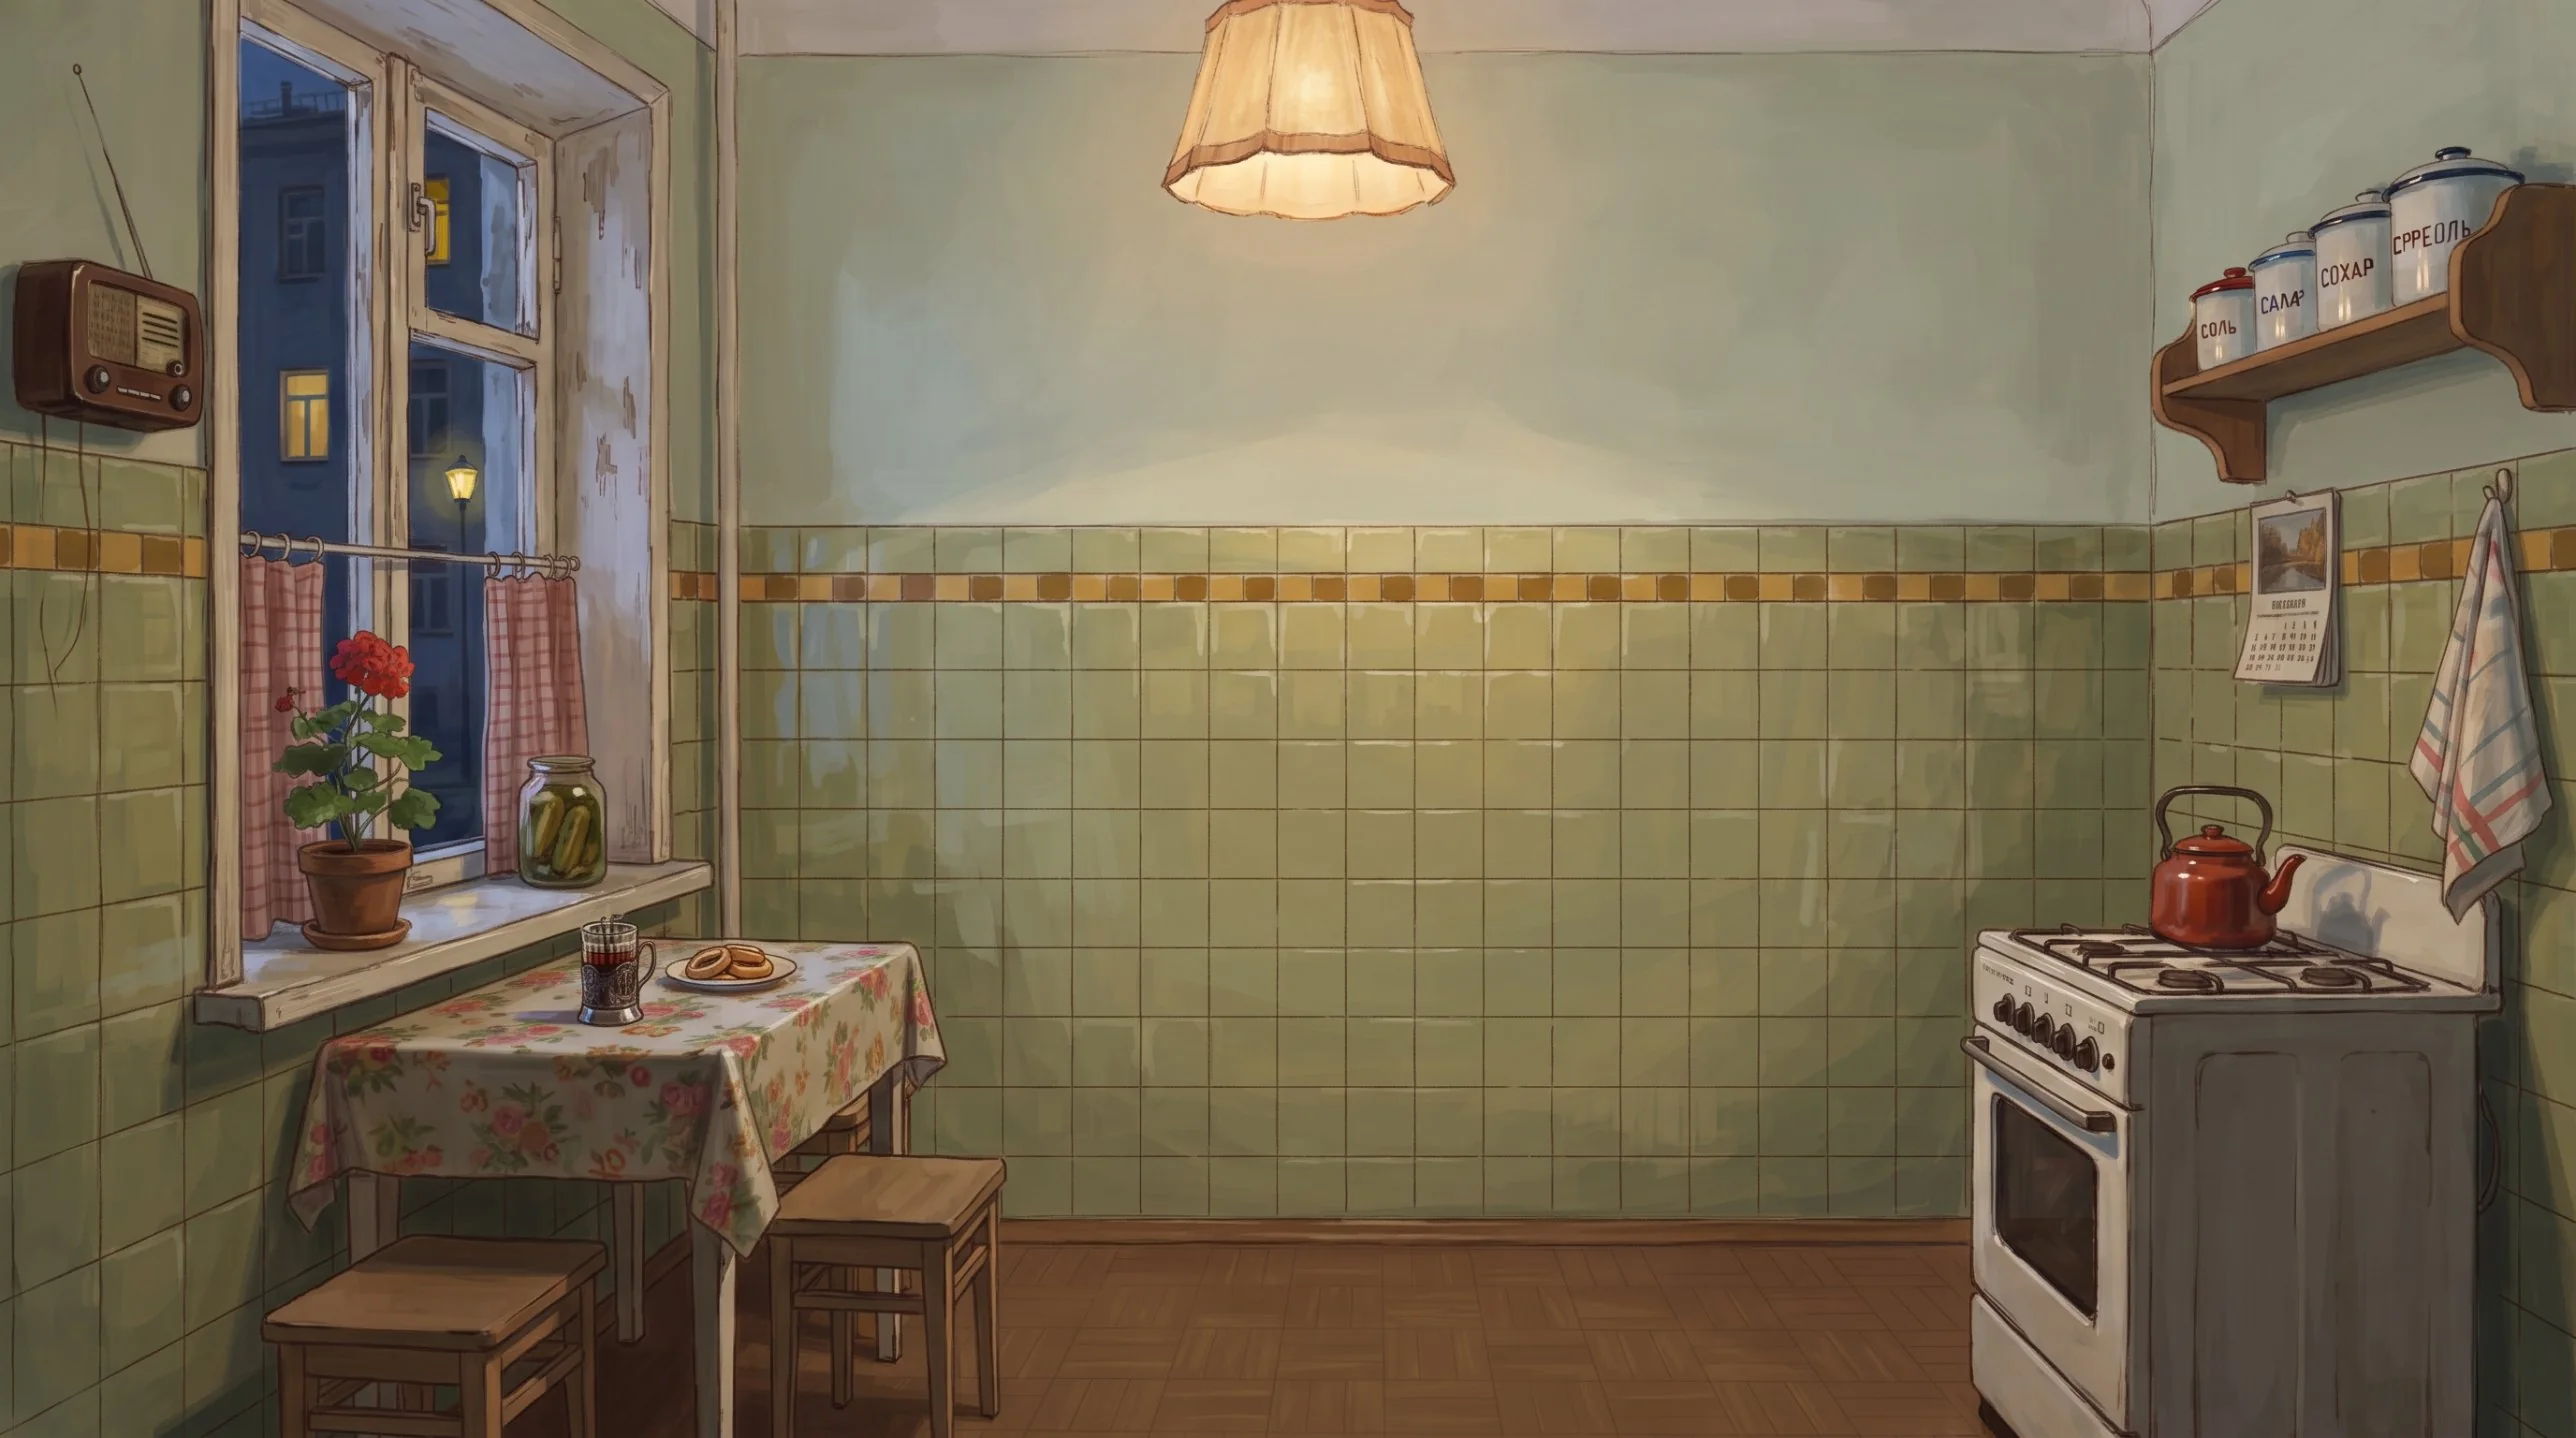
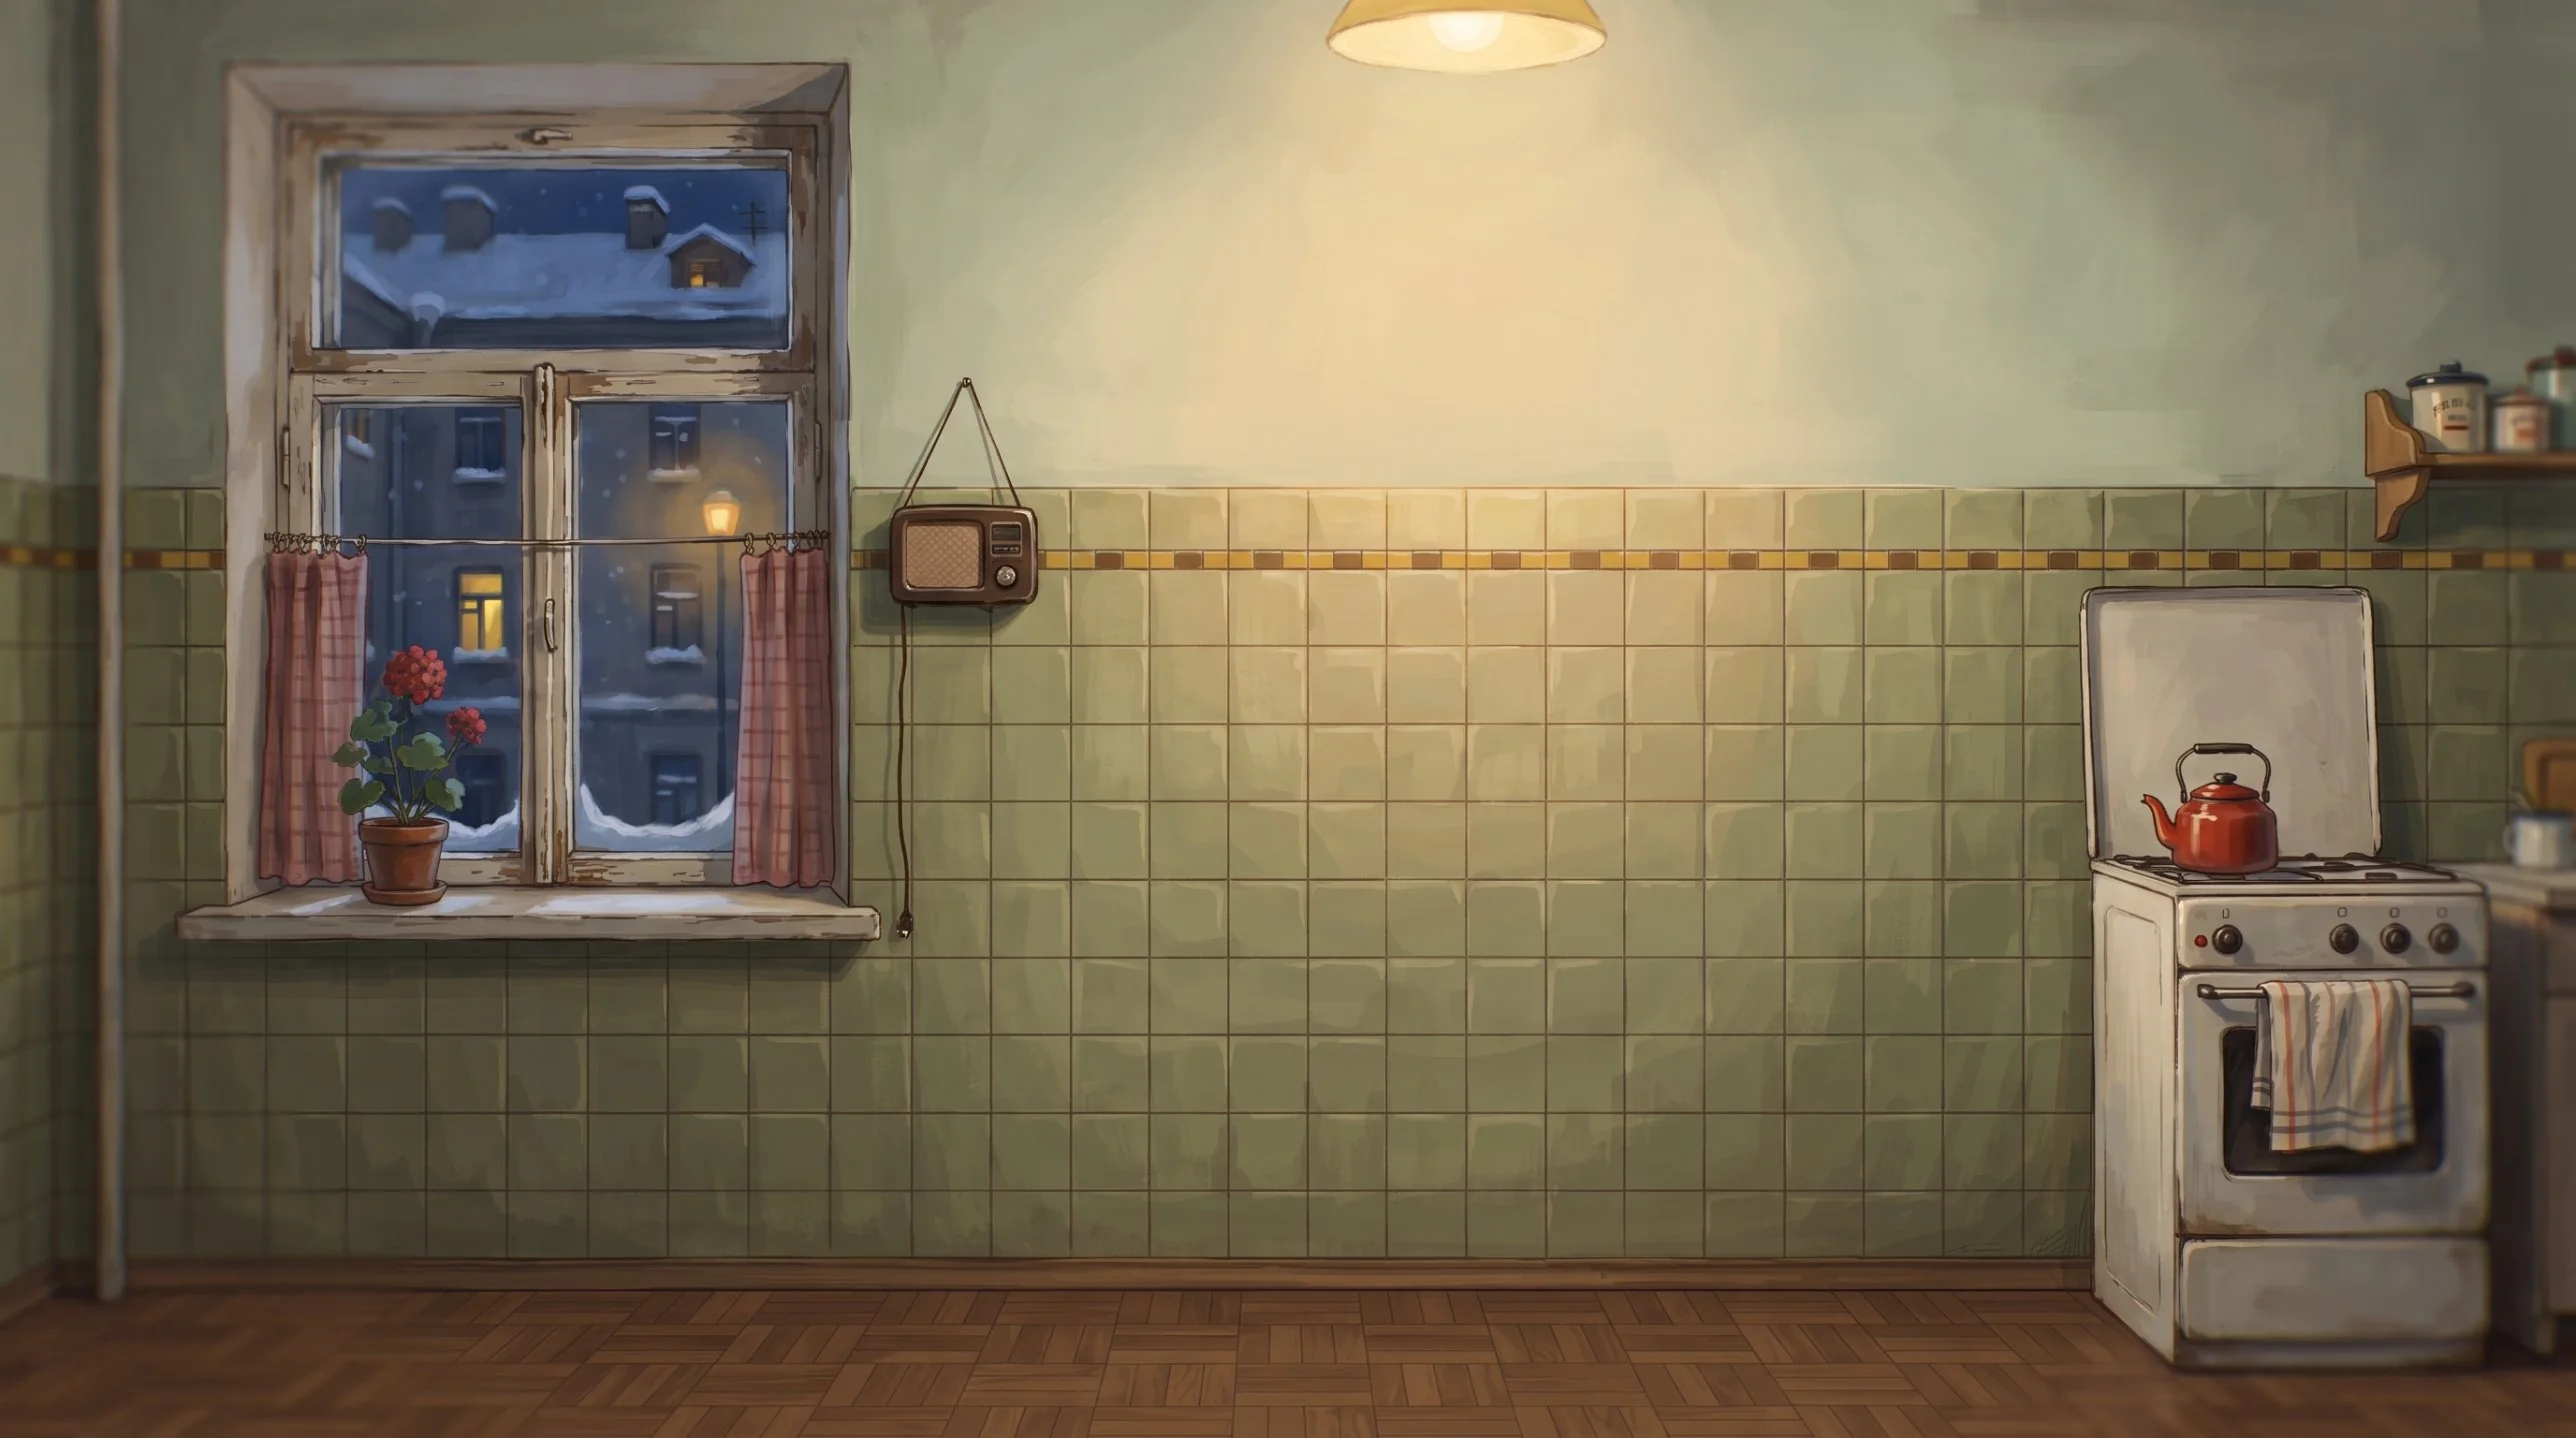
О проекте: новая стена кухни, снег за окном

diff --git a/index.html b/index.html
@@ -2233,6 +2233,7 @@ button.cd:focus-visible{outline:3px solid #e3c98f; outline-offset:4px}
   background:radial-gradient(ellipse at 50% 45%, transparent 55%, rgba(20,14,8,.35)), url("assets/about/kitchen.webp") 50% 50% / cover no-repeat,
     radial-gradient(ellipse 70% 60% at 50% 20%, #6a5440, #3a2e22 60%, #241c14)}
 .ab-kitchen .about.section{position:relative; padding-bottom:7svh}
+.kt-snow{position:absolute; inset:0; width:100%; height:100%}
 .ab-kitchen h2{color:#2a2418; text-shadow:0 1px 12px rgba(255,246,220,.8)}
 .ab-kitchen .lede{color:#2f271c; text-shadow:0 1px 10px rgba(255,246,220,.85)}
 .ab-fridge{position:relative; max-width:960px; margin:34px auto 0; padding:170px clamp(16px, 5vw, 64px) 130px;
@@ -3188,7 +3189,7 @@ button.cd:focus-visible{outline:3px solid #e3c98f; outline-offset:4px}
 <!-- ================= ABOUT: a letter, two photos and a postcard ================= -->
 <main class="page" data-route="/about">
   <div class="ab-kitchen">
-    <div class="kt-bg" aria-hidden="true"></div>
+    <div class="kt-bg" aria-hidden="true"><canvas class="kt-snow"></canvas></div>
 
     <div class="wrap section about">
       <h2>О проекте</h2>
@@ -3828,6 +3829,44 @@ button.cd:focus-visible{outline:3px solid #e3c98f; outline-offset:4px}
     for (let x = 6; x <= 74; x += 6.8){ c += `<circle cx="${x}" cy="2" r="2.2"/><circle cx="${x}" cy="98" r="2.2"/>`; }
     for (let y = 6; y <= 94; y += 6.8){ c += `<circle cx="2" cy="${y}" r="2.2"/><circle cx="78" cy="${y}" r="2.2"/>`; }
     perf.innerHTML = c;
+  })();
+
+
+  /* ---------- «О проекте»: snow falling behind the kitchen window of the background picture ---------- */
+  (() => {
+    const cv = document.querySelector('.kt-snow'), page = document.querySelector('.page[data-route="/about"]');
+    if (!cv || !page) return;
+    const ctx = cv.getContext('2d');
+    // the glass of the window in kitchen.webp, in pixels of that picture (change these if the picture is replaced)
+    const IMG = {w: 2576, h: 1438}, PANES = [[340, 165, 790, 348], [340, 405, 522, 590], [490, 590, 522, 855], [578, 405, 740, 855], [740, 405, 790, 540]];
+    const box = [Math.min(...PANES.map(p => p[0])), Math.min(...PANES.map(p => p[1])), Math.max(...PANES.map(p => p[2])), Math.max(...PANES.map(p => p[3]))];
+    const flakes = Array.from({length: 140}, () => ({u: Math.random(), v: Math.random(), r: Math.random() * 1.6 + .6, s: Math.random() * .35 + .25, ph: Math.random() * 6.28}));
+    let on = false;
+    const draw = now => {
+      const dpr = Math.min(2, devicePixelRatio || 1), W = cv.clientWidth, H = cv.clientHeight;
+      if (!W || !H) return;
+      if (cv.width !== Math.round(W * dpr)){ cv.width = Math.round(W * dpr); cv.height = Math.round(H * dpr); }
+      const k = Math.max(W / IMG.w, H / IMG.h), ox = (W - IMG.w * k) / 2, oy = (H - IMG.h * k) / 2;
+      const X = x => (ox + x * k) * dpr, Y = y => (oy + y * k) * dpr, t = now / 1000;
+      ctx.clearRect(0, 0, cv.width, cv.height);
+      ctx.save(); ctx.beginPath();
+      PANES.forEach(([x1, y1, x2, y2]) => ctx.rect(X(x1), Y(y1), X(x2) - X(x1), Y(y2) - Y(y1)));
+      ctx.clip();
+      const bw = box[2] - box[0], bh = box[3] - box[1];
+      for (const f of flakes){
+        if (!reduce){ f.v += f.s * .0016; f.u += Math.sin(t * .8 + f.ph) * .0004 + .0002; }
+        if (f.v > 1){ f.v -= 1; f.u = Math.random(); }
+        f.u = (f.u + 1) % 1;
+        ctx.fillStyle = `rgba(240,246,255,${(.55 + .4 * f.s).toFixed(2)})`;
+        ctx.beginPath(); ctx.arc(X(box[0] + f.u * bw), Y(box[1] + f.v * bh), f.r * k * 2.2 * dpr, 0, 6.28); ctx.fill();
+      }
+      ctx.restore();
+    };
+    const tick = now => { if (!page.classList.contains('on') || document.hidden){ on = false; return; } draw(now); requestAnimationFrame(tick); };
+    const start = () => { if (on || !page.classList.contains('on')) return; on = true; if (reduce){ draw(performance.now()); on = false; } else requestAnimationFrame(tick); };
+    addEventListener('hashchange', () => setTimeout(start, 50));
+    document.addEventListener('visibilitychange', () => { if (!document.hidden) start(); });
+    setTimeout(start, 300);
   })();
 
   /* ---------- router ---------- */
